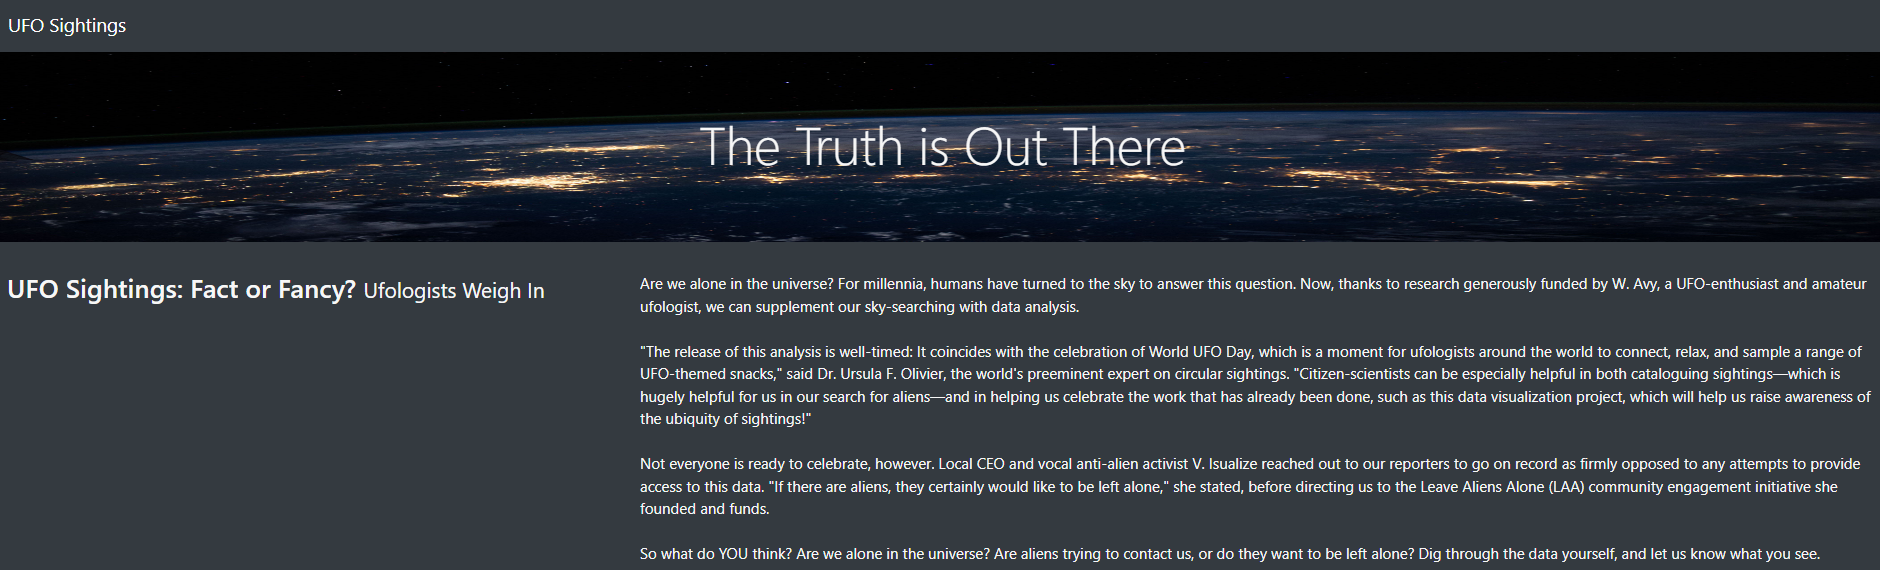
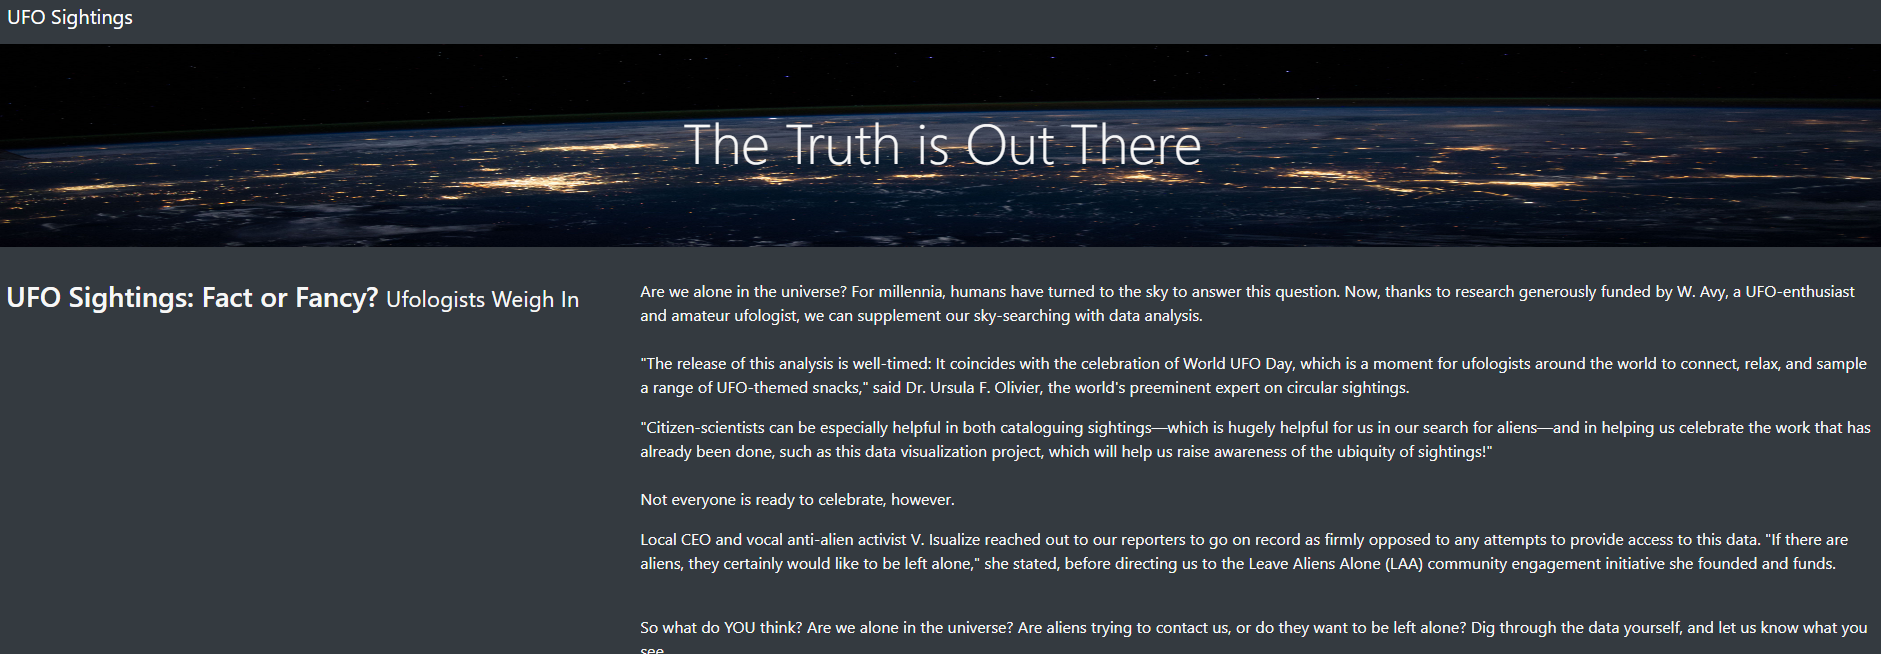
challenge final work

diff --git a/static/js/app.js b/static/js/app.js
@@ -31,20 +31,20 @@ function updateFilters() {
 
 
     // 4a. Save the element that was changed as a variable.
-let changedElement= d3.select(this);
-    // 4b. Save the value that was changed as a variable.
-let elementValue = changedElement.property("value")
-console.log(elementValue);
-    // 4c. Save the id of the filter that was changed as a variable.
-let filterID= changedElement.attr("id");
+    let changedElement= d3.select(this);
+        // 4b. Save the value that was changed as a variable.
+    let elementValue = changedElement.property("value")
+    //console.log(elementValue);
+        // 4c. Save the id of the filter that was changed as a variable.
+    let filterID= changedElement.attr("id");
   
     // 5. If a filter value was entered then add that filterId and value
     // to the filters list. Otherwise, clear that filter from the filters object.
     if (elementValue) {
-      filters[filterID] = =elementValue;
+      filters[filterID] = elementValue;
     }
     else {
-      delete filters[filterId];
+      delete filters[filterID];
     } 
   
     // 6. Call function to apply all filters and rebuild the table

diff --git a/index.html b/index.html
@@ -74,7 +74,6 @@
                     </ul>
                 </form>
             </div>
-        </div>
             <div class="col-md-9">
                 <table class="table table-striped">
                     <thead>
@@ -92,6 +91,7 @@
                     </thead>
                     <tbody></tbody>
                 </table>
+            </div>
             </div>
         </div>
     </div>

diff --git a/README.md b/README.md
@@ -12,9 +12,9 @@ The website will generate results based on the information you provide. To reset
 
 ## Summary/Areas for Improvement:
 The user must know specific dates, cities, or shapes to search. Some shapes like "light" might not be as intuitive. The filters require correct lower-case spellings and cannot include spaces at the end. 
-The city that was used, for example, could not be typed as "elcajon", “el cajon_”, or "El Cajon". The only acceptable input would be "el cajon".
+The city that was used, for example, could not be typed as "lamesa", “la_mesa”, or "La Mesa". The only acceptable input would be "la mesa".
 
-Two recommendations are:
+Two recommendations (and a bonus) are:
 - Make the page upper case/lower case intuitive. If a search were to be for Roswell rather than roswell it would be syntactically correct.
-- Allow for a map point to appear when the search results are populated. A google map location would be beneficialto anyone interested in the general global/topography of a search result. 
+- Allow for a map point to appear when the search results are populated. A google map location would be beneficial to anyone interested in the general global/topography of a search result. 
 - A fun bonus to the page would be as the mouse navigates the page add a whimsical ufo icon that travels as the mouse tail.
